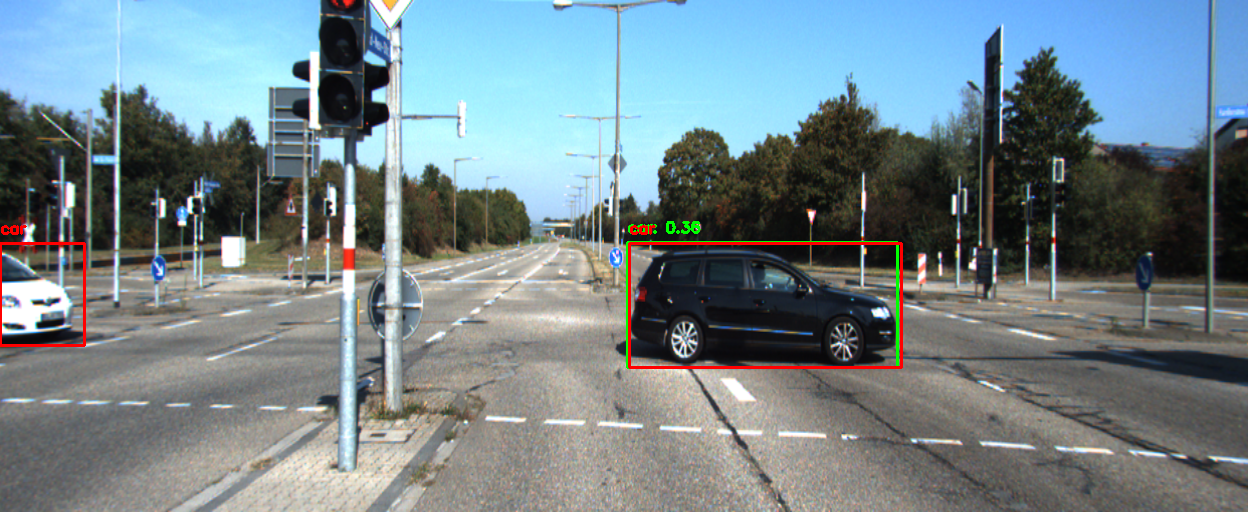
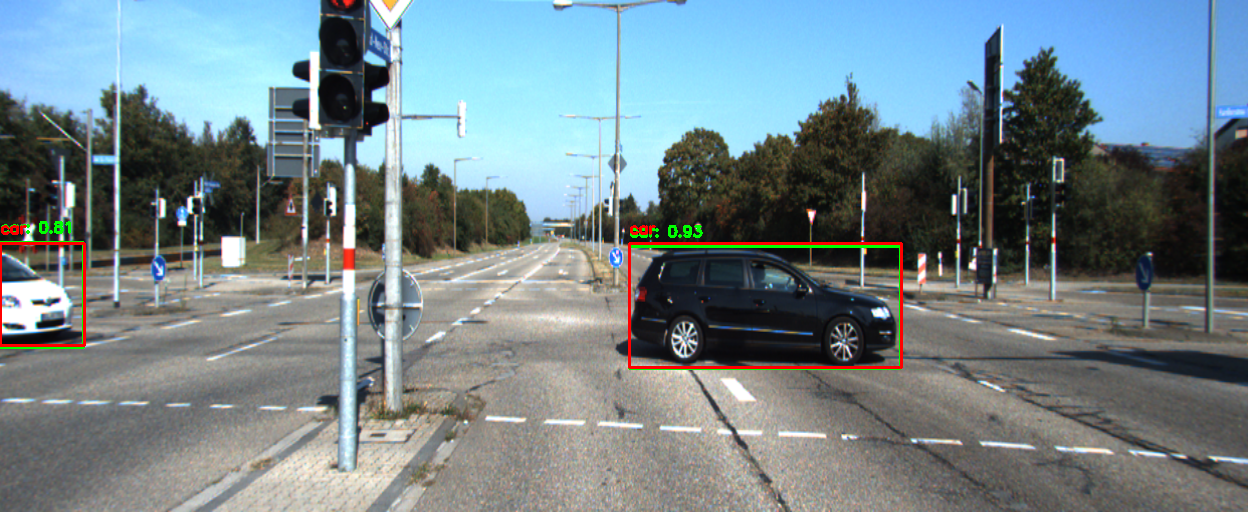
model besser trainiert erkennt fast alles recht genau

Changed region(s): [[0.5, 0.4062, 0.7188, 0.5], [0.0, 0.6562, 0.0625, 0.6875], [0.0312, 0.4375, 0.0625, 0.4688]]

diff --git a/Scripts/Training.py b/Scripts/Training.py
@@ -5,11 +5,11 @@ os.environ["KMP_DUPLICATE_LIB_OK"] = "TRUE"
 # Modell initialisieren
 #model = YOLO("yolo11n.pt")  # Sie können yolov11s.pt oder ein anderes Modell verwenden
 
-model = YOLO("runs/detect/train/weights/best.pt")  # Pfad zu den vortrainierten Gewichten
+model = YOLO("runs/detect/train2/weights/best.pt")  # Pfad zu den vortrainierten Gewichten
 # Training
 model.train(
     data="kitti.yaml",
-    epochs=50,
+    epochs=100,
     batch=32,
     augment=True,
     )

diff --git a/Scripts/Prediction.py b/Scripts/Prediction.py
@@ -4,7 +4,7 @@ import cv2
 import numpy as np
 
 # Absoluter Pfad zur trainierten Modell-Datei
-model_path = "runs/detect/train/weights/best.pt"
+model_path = "runs/detect/train2/weights/best.pt"
 if not os.path.exists(model_path):
     raise FileNotFoundError(f"Modell-Datei nicht gefunden: {model_path}")
 
